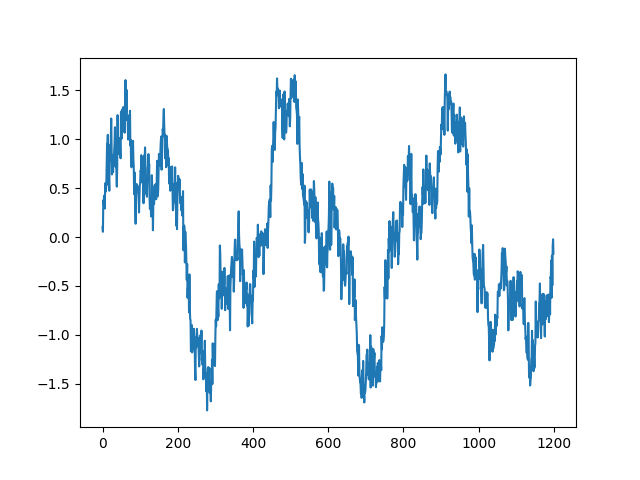
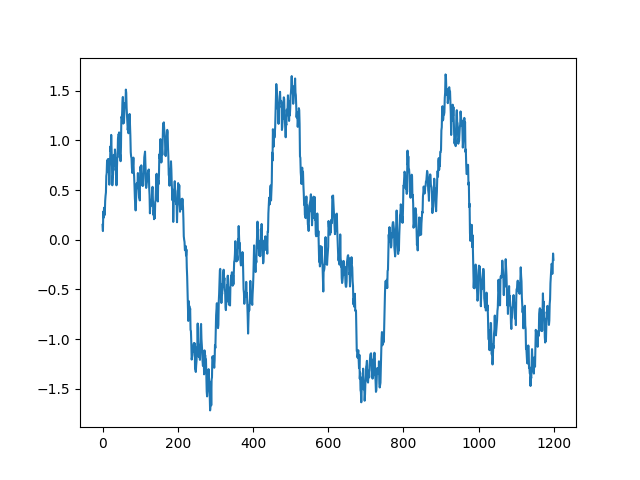
noise

diff --git a/hello-NN2.py b/hello-NN2.py
@@ -1,0 +1,112 @@
+import tensorflow as tf
+import pandas as pd
+import numpy as np
+from sklearn.preprocessing import MinMaxScaler
+import matplotlib.pyplot as plt
+
+# sin wave data読み込み
+sinWaveData = pd.read_csv("./sin_wave.csv")
+sinWaveData = sinWaveData.drop("Unnamed: 0", axis=1)
+print(sinWaveData)
+print(sinWaveData.max())
+
+# 正解データ用意
+sinWaveData['ans'] = sinWaveData['noise'].shift(-1)
+print(sinWaveData)
+
+# data正規化
+scaler = MinMaxScaler()
+scaler.fit(sinWaveData)
+sinWaveDataNorm = scaler.transform(sinWaveData)
+
+# 訓練データ/検証データの分割
+trainData = sinWaveDataNorm[:1000]
+checkData = sinWaveDataNorm[1001:-1]
+
+# 訓練データの生成
+INPUT_DAYS = 5
+iData = []
+aData = []
+for i in range(INPUT_DAYS-1, len(trainData)):
+    inpSet = []
+    for j in range(i-INPUT_DAYS+1, i+1):
+        inpSet.append(trainData[j][1])
+
+    iData.append(inpSet)
+    aData.append([trainData[i][2]])
+iData = np.array(iData)
+aData = np.array(aData)
+
+
+# 検証データの生成
+ciData = []
+caData = []
+for i in range(INPUT_DAYS-1, len(checkData)):
+    inpSet = []
+    for j in range(i-INPUT_DAYS+1, i+1):
+        inpSet.append(checkData[j][1])
+
+    ciData.append(inpSet)
+    caData.append([checkData[i][2]])
+ciData = np.array(ciData)
+caData = np.array(caData)
+
+## NNの構築
+INPUT_LAYER_NUM = INPUT_DAYS
+HIDDEN_LAYER_NUM = 10
+OUTPUT_LAYER_NUM = 1
+TRAIN_RATE = 0.02
+TRAIN_NUM = 50000
+
+#入出力ホルダー
+inpData = tf.placeholder(tf.float32, [None, INPUT_LAYER_NUM])
+ansData = tf.placeholder(tf.float32, [None, OUTPUT_LAYER_NUM])
+
+# 入力→隠れ層
+w1 = tf.Variable(tf.random_uniform([INPUT_LAYER_NUM, HIDDEN_LAYER_NUM], -1, 1))
+b1 = tf.Variable(tf.random_uniform([HIDDEN_LAYER_NUM], -1, 1))
+o1 = tf.nn.sigmoid(tf.matmul(inpData, w1) + b1)
+
+# 隠れ→出力層
+w2 = tf.Variable(tf.random_uniform([HIDDEN_LAYER_NUM, OUTPUT_LAYER_NUM], -1, 1))
+b2 = tf.Variable(tf.random_uniform([OUTPUT_LAYER_NUM], -1, 1))
+output = tf.nn.sigmoid(tf.matmul(o1, w2) + b2)
+
+# 損失関数
+loss = tf.reduce_mean(tf.squared_difference(ansData, output))
+
+# 最適化
+train = tf.train.AdamOptimizer(TRAIN_RATE).minimize(loss)
+
+# 実行
+with tf.Session() as sess:
+    sess.run(tf.global_variables_initializer())
+
+
+    for i in range(TRAIN_NUM):
+        dummy_, loss_= sess.run([train, loss],
+                            feed_dict = {inpData: iData, ansData: aData})
+        
+        if i % 100 == 0:
+            print(i, ":", loss_)
+
+    out, loss_ = sess.run([output, loss], feed_dict={inpData: iData, ansData: aData})
+    print(loss_)
+
+    plt.plot(np.reshape(aData, (1,-1))[0])
+    plt.plot(np.reshape(out, (1,-1))[0])
+    plt.savefig("./nn(n)-d"+str(INPUT_DAYS)+"t"+str(TRAIN_NUM)+"r"+str(TRAIN_RATE)+"gaku.png")
+    plt.show()
+
+    out, loss_ = sess.run([output, loss], feed_dict={inpData: ciData, ansData: caData})
+    print(loss_)
+
+    plt.plot(np.reshape(caData, (1,-1))[0])
+    plt.plot(np.reshape(out, (1,-1))[0])
+    plt.savefig("./nn(n)-d"+str(INPUT_DAYS)+"t"+str(TRAIN_NUM)+"r"+str(TRAIN_RATE)+"chk.png")
+    plt.show()
+
+    
+
+
+

diff --git a/make_data.py b/make_data.py
@@ -19,7 +19,7 @@ plt.savefig("./sinW.png")
 plt.show()
 
 # white noise
-sinN = y5 + y25 + y75 + y200 + (1/8*np.random.randn(point_num))
+sinN = y5 + y25 + y75 + y200 + (1/16*np.random.randn(point_num))
 
 plt.plot(x, sinN)
 plt.savefig("./sinN.png")
